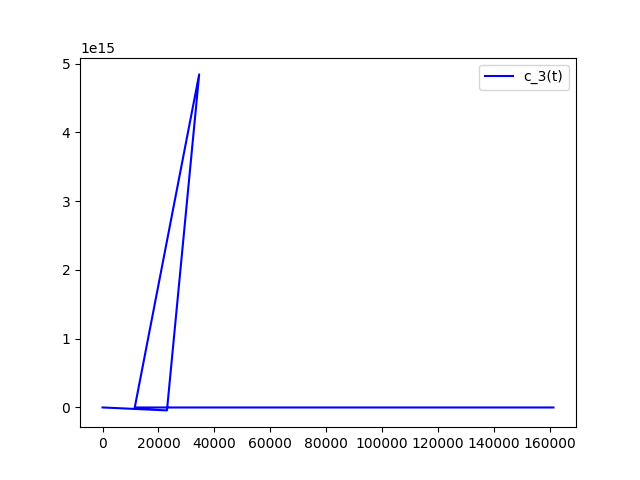
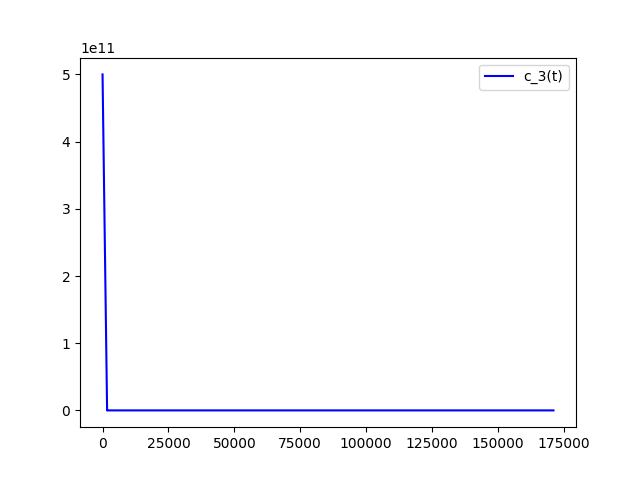
change

diff --git a/lab1_2024/main2.py b/lab1_2024/main2.py
@@ -8,7 +8,7 @@ t_d = 24 * 60 * 60
 k_1 = []
 k_2 = 10**5
 k_3 = 10**(-16)
-delta_t = 2 * t_d / 10
+delta_t = 2 * t_d / 100
 
 def delta_t_generate(n : int) -> float:
   return 2 * t_d / n
@@ -31,20 +31,30 @@ def c_4_tmp(delta_t : float, real_t : float) -> float:
   tmp = c_4_real[-1] + delta_t * (k_2 * c_1_real[-1] - k_3 * c_2_real[-1] * c_4_real[-1])
   return tmp
 
+def init_steps(vars):
+  x, y, z, l = vars
+  
+  f1 = x - c_1_real[-1] - delta_t / 2 * (k_1[-1] * z - k_2 * x + k_1[-2] * c_3_real[-1]  - k_2 * c_1_real[-1])
+  f2 = y - c_2_real[-1] - delta_t / 2 * (k_1[-1] * z - k_3 * y * l + k_1[-2] * c_3_real[-1] - k_3 * c_2_real[-1] * c_4_real[-1])
+  f3 = z - c_3_real[-1] - delta_t / 2 * (k_3 * y * l - k_1[-1] * z + k_3 * c_2_real[-1] * c_4_real[-1] - k_1[-2] * c_3_real[-1])
+  f4 = l - c_4_real[-1] - delta_t / 2 * (k_2 * x - k_3 * y * l  + k_2 * c_1_real[-1] - k_3 * c_2_real[-1] * c_4_real[-1])
+
+  return [f1, f2, f3, f4]
+
 def first_step(k : int, delta_t : float, real_t : float, net : list[float]):
+  init_ptr = [0.0, 0.0, 0.0, 0.0]
   for _ in range(k):
-    k_1_gen(real_t)
-    tmp_1 = c_1_tmp(delta_t, real_t)
-    tmp_2 = c_2_tmp(delta_t, real_t)
-    tmp_3 = c_3_tmp(delta_t, real_t)
-    tmp_4 = c_4_tmp(delta_t, real_t)
-    real_t += delta_t
-    net.append(real_t)
-    c_1_real.append(tmp_1)
-    c_2_real.append(tmp_2)
-    c_3_real.append(tmp_3)
-    c_4_real.append(tmp_4)
+    k_1_gen(real_t + delta_t)
     
+    init_ptr = fsolve(init_steps, init_ptr)
+    c_1_real.append(init_ptr[0])
+    c_2_real.append(init_ptr[1])
+    c_3_real.append(init_ptr[2])
+    c_4_real.append(init_ptr[3])
+
+    net.append(real_t)
+
+
 
 
 def draw_graph_c1(c_1_x : list[float], net : list[float]):
@@ -76,8 +86,8 @@ def to_solve(vars):
 
   f1 = 3 / 2 * x - 2 * c_1_real[-1] + 1 / 2 * c_1_real[-2] - delta_t * (k_1[-1] * z - k_2 * x)
   f2 = 3 / 2 * y - 2 * c_2_real[-1] + 1 / 2 * c_2_real[-2] - delta_t * (k_1[-1] * z - k_2 * y * l)
-  f3 = 3 / 2 * x - 2 * c_3_real[-1] + 1 / 2 * c_3_real[-2] - delta_t * (k_3 * y * l - k_1[-1] * z)
-  f4 = 3 / 2 * x - 2 * c_4_real[-1] + 1 / 2 * c_4_real[-2] - delta_t * (k_2 * x - k_3 * y * l)
+  f3 = 3 / 2 * z - 2 * c_3_real[-1] + 1 / 2 * c_3_real[-2] - delta_t * (k_3 * y * l - k_1[-1] * z)
+  f4 = 3 / 2 * l - 2 * c_4_real[-1] + 1 / 2 * c_4_real[-2] - delta_t * (k_2 * x - k_3 * y * l)
 
   return [f1, f2, f3, f4]
 
@@ -104,9 +114,12 @@ def solve_eq(real_t : float, net : list[float]):
 
 def main():
   real_t = 0
+  k_1_gen(real_t)
+  k_1_gen(real_t + delta_t)
+
   net = net_generate(real_t)
   real_t += delta_t
-  first_step(2, delta_t, real_t, net) # eyler for first 3 nums
+  first_step(10, delta_t, real_t, net) # eyler for first 10 nums
   solve_eq(real_t, net)
   print(c_1_real, c_2_real, c_3_real, c_4_real)
   print(net)
